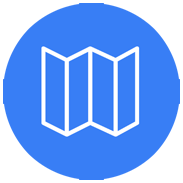
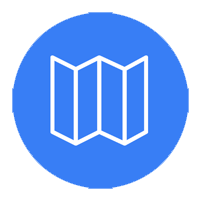
Finish

Changed region(s): [[0.0, 0.0, 0.9836, 0.9836], [0.2186, 0.2459, 0.765, 0.765]]

diff --git a/www/js/controllers backuppp.js b/www/js/controllers backuppp.js
@@ -2,11 +2,11 @@
 angular.module('starter.controllers', [])
 
 .controller('MapCtrl', ['$scope', '$http', '$state', '$ionicModal', 'get_data_service', '$ionicLoading', "$rootScope", "$ionicPopup" ,function($scope, $http, $state, $ionicModal, get_data_service, $ionicLoading, $rootScope, $ionicPopup) {
-// ionic.Platform.ready(function() {
-//     // hide the status bar using the StatusBar plugin
-//     StatusBar.hide();
-//   });
-$http.get('http://arisudana.web.id/ci2/dijkstra/data').success(function(data){
+ionic.Platform.ready(function() {
+    // hide the status bar using the StatusBar plugin
+    StatusBar.hide();
+  });
+$http.get('http://localhost/ci2/dijkstra/data').success(function(data){
 // $http.get('http://localhost/json/data.json').success(function(data){
 
       $scope.location = data;
@@ -30,7 +30,7 @@ $scope.showPopup = function(string) {
     var myPopup = $ionicPopup.show({
        
        title: 'Peringatan!',
-       subTitle: "Persimpangan Awal atau Akhir Tidak Boleh Kosong!",
+       subTitle: string + " Tidak Boleh Kosong!",
        scope: $scope,
     
        buttons: [
@@ -43,42 +43,14 @@ $scope.showPopup = function(string) {
     });    
  };
   $scope.airplaneMode = false;
-  $scope.TrafficLayerON = function()
-  {
-
-    
-    $scope.trafficLayer.setMap($scope.map);
-    $scope.mapCreated($scope.map);
-    // $scope.trafficLayer = new google.maps.TrafficLayer(); 
-      
-    //   $scope.trafficLayer.setMap($scope.map);
-    // alert($scope.airplaneMode);
-    if ($scope.airplaneMode == false) {
-        $scope.airplaneMode = true;
-    } else
-        $scope.airplaneMode = false;
-
-    // if ($scope.airplaneMode == true) {
-       
-    // }
-    // else
-    // {
-    //   $scope.trafficLayer.setMap(null);
-    // } 
-    // console.log('gas');
-  }
   console.log('params',$state.params.aId);
   $scope.whichartist = $state.params.aId;
-  $scope.trafficLayer = new google.maps.TrafficLayer(); 
-  $scope.mapCreated = function(map) {
-    
-    $scope.map = map;
-    if ($scope.airplaneMode == true) {
-        $scope.trafficLayer.setMap($scope.map);
-    }
 
-  };
+  $scope.mapCreated = function(map) {
    
+    $scope.map = map;
+  };
+
   $scope.go = function(Value, Value2)
   {
 
@@ -119,16 +91,16 @@ $scope.showPopup = function(string) {
   {
     var string = "";
     if (!item2 && !item) {
-      string = "Persimpangan Awal dan Akhir";
+      string = "Titik Awal dan Akhir";
       $scope.showPopup(string);
     }
     else if (!item) {
-      string = "Persimpangan Awal";
+      string = "Titik Awal";
       $scope.showPopup(string);
     }
     else if(!item2)
     {
-      string = "Persimpangan Akhir";
+      string = "Titik Akhir";
       $scope.showPopup(string);
     }
 
@@ -168,8 +140,24 @@ $scope.showPopup = function(string) {
     });
   }
   }
- 
+  $scope.trafficLayer = new google.maps.TrafficLayer(); 
+  $scope.TrafficLayerON = function()
+  {
+    if ($scope.airplaneMode == false) {
+                $scope.airplaneMode = true;
+            } else
+                $scope.airplaneMode = false;
 
+    if ($scope.airplaneMode == true) {
+      
+      $scope.trafficLayer.setMap($scope.map);
+    }
+    else
+    {
+      $scope.trafficLayer.setMap(null);
+    } 
+    console.log('gas');
+  }
   function GetLocation(item)
   {
 
@@ -177,8 +165,7 @@ $scope.showPopup = function(string) {
     $scope.item = item;
     $scope.lat_t = [];
     $scope.long_t = [];
-    $scope.name = [];
-    $scope.id = [];
+
     console.log('Get Location Success');
     angular.forEach($scope.location, function(value, key){
         for (var i = 0; i < item[0].length; i++) {
@@ -186,25 +173,42 @@ $scope.showPopup = function(string) {
           if (String(item[0][i]) === value.node_id) {
              $scope.lat_t.push(value.ltd);
              $scope.long_t.push(value.lgd);
-              $scope.name.push(value.node_label);
-              $scope.id.push(value.node_id);
+            
           }
         }
     });
-    AddLine($scope.lat_t, $scope.long_t, $scope.name, $scope.id);
+    AddLine($scope.lat_t, $scope.long_t);
     
   }
 
-  function AddMarker(lat, long, color, name, id)
+  //  function GetLocation(item)
+  // {
+  //   var a = 0;
+  //   $scope.item = item;
+  //   $scope.lat_t = [];
+  //   $scope.long_t = [];
+
+  //   angular.forEach($scope.location, function(value, item){
+  //     angular.forEach($scope.item, function(value2, item2){
+
+  //         if (String(value2[a]) === value.node_id) {
+  //            $scope.lat_t.push(value.ltd);
+  //            $scope.long_t.push(value.lgd);
+  //            AddMarker(value.ltd, value.lgd);
+             
+  //            //console.log(value);
+  //            console.log(value2[item]);
+  //         }
+  //          a = a + 1;
+  //      })
+      
+  //   });
+  //   AddLine($scope.lat_t, $scope.long_t);
+    
+  // }
+  function AddMarker(lat, long, color)
   {
     var contentString = '<div id="content">'+
-      '<div id="siteNotice">'+
-      '</div>'+
-      '<p><b>ID</b> :' +id+
-      '<p><b>Nama Persimpangan</b> :' +name+
-      '</p><p><b>Latitude</b>          :' +lat+
-      '</p><p><b>Longitute</b>     :' +long+
-      '</p></div>'+
       '</div>';
     var infowindow = new google.maps.InfoWindow({
       content: contentString
@@ -231,7 +235,7 @@ $scope.showPopup = function(string) {
     });
     $scope.marker.addListener('click', function() {
           infowindow.open($scope.map, $scope.marker);
-    });
+        });
 
     markers.push($scope.marker);
     
@@ -243,7 +247,7 @@ $scope.showPopup = function(string) {
   });
   //var directionsDisplay = new google.maps.DirectionsRenderer;
   var marker_colour = 'RED';
-  function AddLine(lat, long, name, id)
+  function AddLine(lat, long)
     {
       
       
@@ -262,7 +266,9 @@ $scope.showPopup = function(string) {
      
       for(i = 0; i < result.length; i++)
       {
-         
+        
+        
+        
         if (i == 0)
         {
           request.origin = {lat:result[i], lng:result2[i]};
@@ -281,7 +287,7 @@ $scope.showPopup = function(string) {
           });
         } 
 
-        AddMarker(result[i], result2[i], marker_colour, name[i], id[i]); 
+        AddMarker(result[i], result2[i], marker_colour); 
       }
       directionsService.route(request, function(response, status) {
         if (status === google.maps.DirectionsStatus.OK) {
@@ -307,7 +313,7 @@ angular.module('second.controllers', [])
         var myPopup = $ionicPopup.show({
            
            title: 'Peringatan!',
-           subTitle: "Belum memilih persimpangan awal dan akhir!",
+           subTitle: "Belum memilih titik awal dan akhir!",
            scope: $scope,
         
            buttons: [
@@ -338,7 +344,7 @@ angular.module('second.controllers', [])
         item2 = get_data_service.get_params2();
         $state.go('tabs.route');
         $http({
-            url: 'http://arisudana.web.id/ci2/get_pso3', 
+            url: 'http://localhost/ci2/get_pso3', 
             method: "GET",
             params: {start_id: item1, finish_id: item2}
           }).success(function(data){
@@ -389,13 +395,13 @@ angular.module('third.controllers', [])
   $scope.num = 0;
   var hasil = JSON.parse("[" + $stateParams.result + "]")
   $scope.loca = [];
-  $http.get('http://arisudana.web.id/ci2/dijkstra/data').success(function(data){
-     
+  $http.get('http://arisudana.xyz/dijkstra/map/data.json').success(function(data){
+     alert(data[1].node_id);
      $scope.show($ionicLoading);
-     for (var i = 0; i < data.length; i++){
+     for (var i = 0; i < data.node.length; i++){
         for (var j = 0; j < $stateParams.result.length; j++) {
-          if (data[i].node_id == hasil[j]) {
-               $scope.loca[j] = data[i];
+          if (data.node[i].id == hasil[j]) {
+               $scope.loca[j] = data.node[i];
            }      
         }
       }
@@ -413,42 +419,42 @@ angular.module('third.controllers', [])
   //   $scope.map = map;
   // }
 
-  $scope.AddMarker = function()
-  {
-    var lat = parseFloat($state.params.lat); 
-    var lng = parseFloat($state.params.lng);
-    var name = $state.params.name;
+  // $scope.AddMarker = function()
+  // {
+  //   var lat = parseFloat($state.params.lat); 
+  //   var lng = parseFloat($state.params.lng);
+  //   var name = $state.params.name;
     
-    var contentString = '<div id="content">'+
-      '<div id="siteNotice">'+
-      '</div>'+
-      '<p><b>Nama Persimpangan</b> :' +name+
-      '</p><p><b>Latitude</b>          :' +lat+
-      '</p><p><b>Longitute</b>     :' +lng+
-      '</p></div>'+
-      '</div>';
-    var infowindow = new google.maps.InfoWindow({
-      content: contentString
-    });
+  //   var contentString = '<div id="content">'+
+  //     '<div id="siteNotice">'+
+  //     '</div>'+
+  //     '<p><b>Nama Persimpangan</b> :' +name+
+  //     '</p><p><b>Latitude</b>          :' +lat+
+  //     '</p><p><b>Longitute</b>     :' +lng+
+  //     '</p></div>'+
+  //     '</div>';
+  //   var infowindow = new google.maps.InfoWindow({
+  //     content: contentString
+  //   });
 
-    var mapOptions = {
-          center: new google.maps.LatLng(lat, lng), 
-          zoom: 14,
-          mapTypeId: google.maps.MapTypeId.ROADMAP
-    };
-    var map = new google.maps.Map(document.getElementById("mapMarker"), mapOptions);
+  //   var mapOptions = {
+  //         center: new google.maps.LatLng(lat, lng), 
+  //         zoom: 14,
+  //         mapTypeId: google.maps.MapTypeId.ROADMAP
+  //   };
+  //   var map = new google.maps.Map(document.getElementById("mapMarker"), mapOptions);
     
-    $scope.marker = new google.maps.Marker({
-        position: new google.maps.LatLng(lat, lng),
-        map: map,
-        title: 'Node!'
-    }, function(err) {
-        console.err(err);
-    });
-    // $scope.marker.addListener('click', function() {
-          infowindow.open($scope.map, $scope.marker);
-        // });
-  }
+  //   $scope.marker = new google.maps.Marker({
+  //       position: new google.maps.LatLng(lat, lng),
+  //       map: map,
+  //       title: 'Node!'
+  //   }, function(err) {
+  //       console.err(err);
+  //   });
+  //   // $scope.marker.addListener('click', function() {
+  //         infowindow.open($scope.map, $scope.marker);
+  //       // });
+  // }
   $scope.back = function()
   {
      $window.history.back();

diff --git a/www/templates/home.html b/www/templates/home.html
@@ -1,12 +1,12 @@
 <ion-view hide-nav-bar="true">
   <ion-content class="splash branding" scroll="false">
     <div class="body">
-    <div class="tagline" style="font-size: 24px;margin-top: 20px;">Panduan</div>
+    <div class="tagline" style="font-size: 24px;margin-top: 20px;"><strong>Panduan</strong></div>
       <img src="img/input.png">
       <div class="tagline" style="margin-left: 10px;">1. Pilih node awal dan akhir pada spinner</div>
-      <img style="height: 50px; width: 50px;" src="img/Maps-Map-icon.png">
+      <img style="height: 30px; width: 30px;" src="img/Maps-Map-icon.png">
       <div class="tagline">2. Untuk mendapatkan hasil pencarian rute pada tampilan Google Maps</div>
-      <img style="height: 50px; width: 50px;" src="img/direction.png">
+      <img style="height: 30px; width: 30px;" src="img/direction.png">
       <div class="tagline">3. Untuk mendapatkan hasil pencarian rute pada tampilan Infografik</div>
       <img style="height: 20px; width: 20px;" src="http://maps.google.com/mapfiles/ms/icons/red-dot.png">
       <small>Titik awal</small>
@@ -38,7 +38,7 @@
 </ion-footer-bar>
  
     </div>
-     <button ng-click="go(Value, Value2)" id="fab-profile" class="button button-fab button-fab-bottom-right button-light"><i class="icon ion-navigate" style="color: rgb(52,108,210);"></i><span></span></button>
+     <button ng-click="go(Value, Value2)" id="fab-profile1" class="button button-fab button-fab-bottom-right button-light"><i class="icon ion-navigate" style="color: rgb(52,108,210);"></i><span></span></button>
     </div>
   </ion-content>
 </ion-view>

diff --git a/www/css/style.css b/www/css/style.css
@@ -25,9 +25,9 @@ map {
 }
 .branding img
 {
-	max-width: 200px;
-	max-height: 200px;
-	margin-top: 50px;
+	max-width: 100px;
+	max-height: 100px;
+	margin-top: 20px;
 	margin-bottom: 10px;
 }/* Empty. Add your own CSS if you like */
 .input-label
@@ -120,6 +120,10 @@ p {
 #fab-profile
 {
     margin-bottom: 80px;
+}
+#fab-profile1
+{
+    margin-bottom: 40px;
 }
 .ion-arrow-down-a
 {
